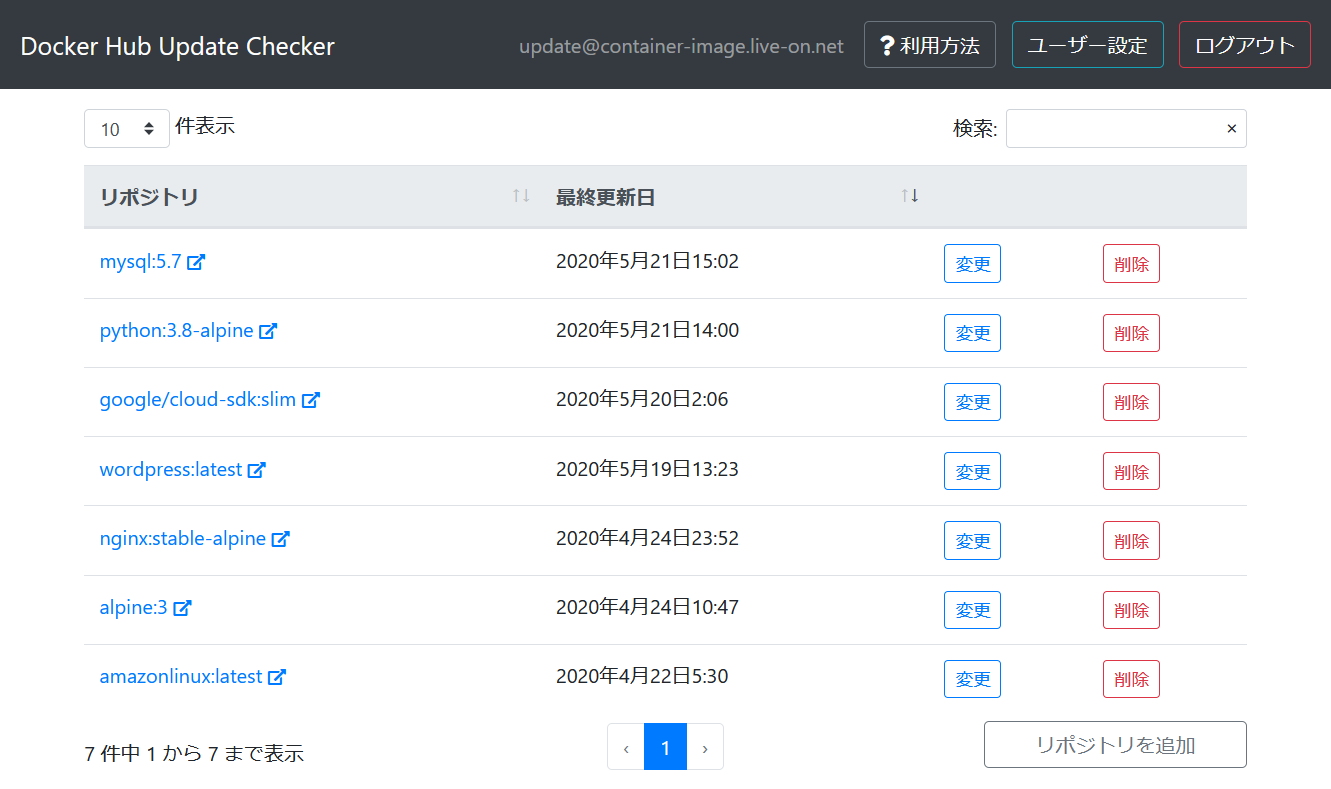
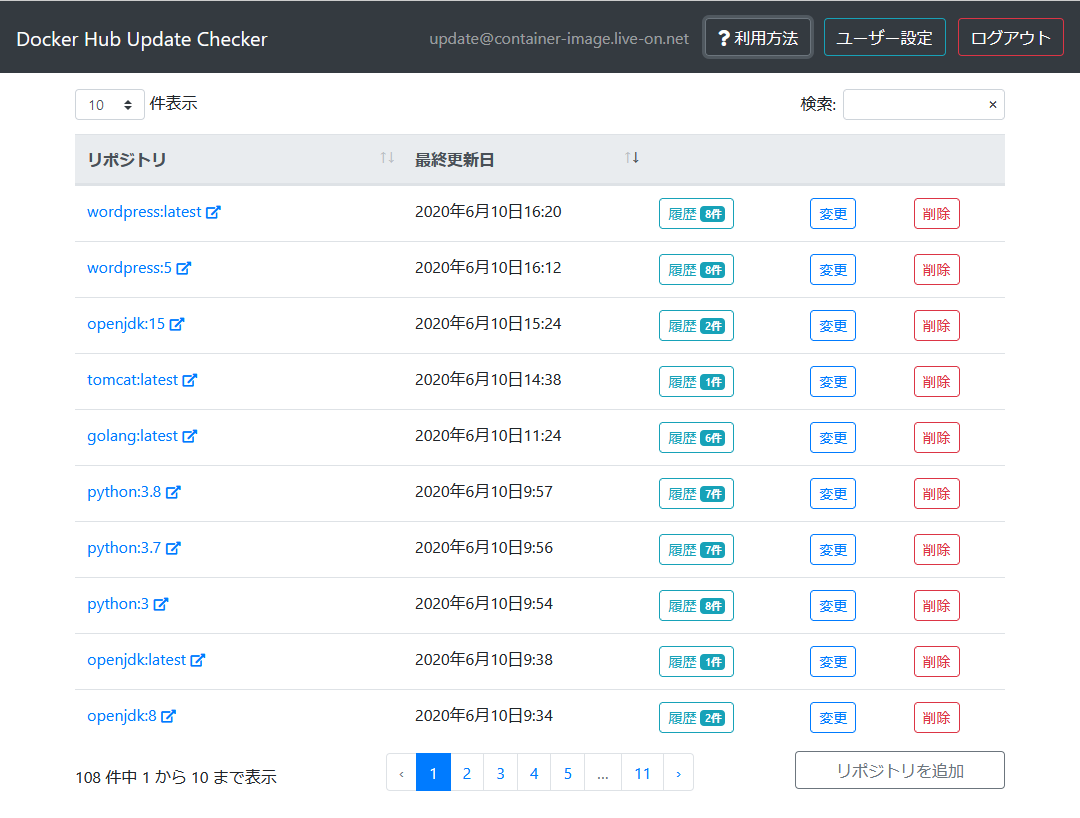
英語UI対応漏れ修正、利用方法のページを更新

diff --git a/django/repos/templates/repos/usage.html b/django/repos/templates/repos/usage.html
@@ -36,6 +36,7 @@
             <img class="img-fluid img-thumbnail mb-3" src="{% static 'images/top_jp.png' %}" alt="usagge top page">
             <p>{% blocktrans %}The list view shows the repository/tag of the registered container image and its last modified date and time.{% endblocktrans %}</p>
             <table class="table table-borderless">
+                <tr><td>{% blocktrans %}'History' button{% endblocktrans %}</td><td>{% blocktrans %}Show the update history of the repository/tag <br>from the time it was registered to the currently.<br>Click on the button to open the history view.{% endblocktrans %}</td></tr>
                 <tr><td>{% blocktrans %}'Edit' button{% endblocktrans %}</td><td>{% blocktrans %}Edit the notification of container image updates.<br>Click on the button to open the update view.{% endblocktrans %}</td></tr>
                 <tr><td>{% blocktrans %}'Remove' button{% endblocktrans %}</td><td>{% blocktrans %}Removes the update notification for the container image.<br>Click the button to open the deletion confirmation dialog.{% endblocktrans %}</td></tr>
                 <tr><td>{% blocktrans %}'Add Repository' button{% endblocktrans %}</td><td>{% blocktrans %}Register a new update notification for the container image.<br>Click on the button to open the add view.{% endblocktrans %}</td></tr>

diff --git a/django/repos/templates/repos/history_form.html b/django/repos/templates/repos/history_form.html
@@ -3,7 +3,7 @@
     <div class="modal-dialog modal-dialog-centered" role="document">
         <div class="modal-content">
             <div class="modal-header">
-                <h5 class="modal-title" id="historyModalLabel">{% blocktrans %}update history{% endblocktrans %}</h5>
+                <h5 class="modal-title" id="historyModalLabel">{% blocktrans %}Update history{% endblocktrans %}</h5>
                 <button type="button" class="close" data-dismiss="modal" aria-label="Close">
                     <span aria-hidden="true">&times;</span>
                 </button>

diff --git a/django/repos/templates/repos/index.html b/django/repos/templates/repos/index.html
@@ -34,7 +34,7 @@
                         data-toggle="modal" data-target="#historyModal"
                         data-title="{{ item.repository_tag }}" data-url="{% url 'repos:history' watching_id=item.id %}">
                     {% blocktrans %}History{% endblocktrans %}
-                    <span class="badge badge-info">{{ item.history_count }}件</span>
+                    <span class="badge badge-info">{% blocktrans with cnt=item.history_count %}{{ cnt }}{% endblocktrans %}</span>
                 </button>
             </td>
             <td>

diff --git a/django/repos/templates/repos/history_list.html b/django/repos/templates/repos/history_list.html
@@ -3,8 +3,8 @@
     <table class="table">
         <thead>
             <tr>
-                <th style="border-top: none;">リポジトリ</th>
-                <th style="border-top: none;">更新日付</th>
+                <th scope="col">{% blocktrans %}Repositories{% endblocktrans %}</th>
+                <th scope="col">{% blocktrans %}Update{% endblocktrans %}</th>
             </tr>
         </thead>
         <tbody>
